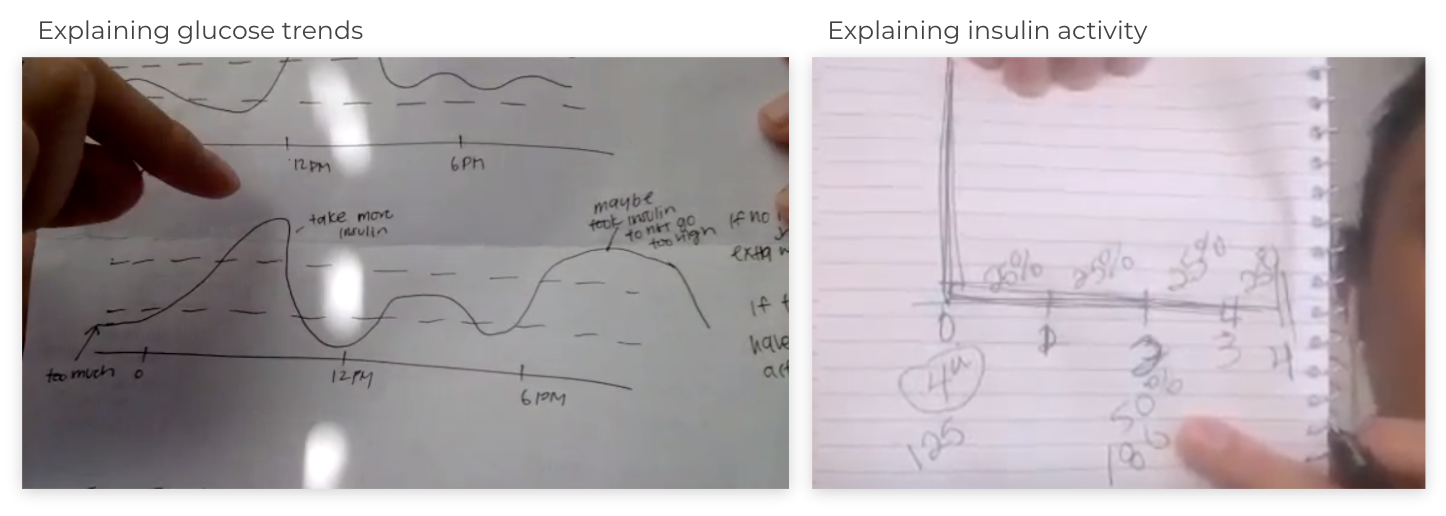
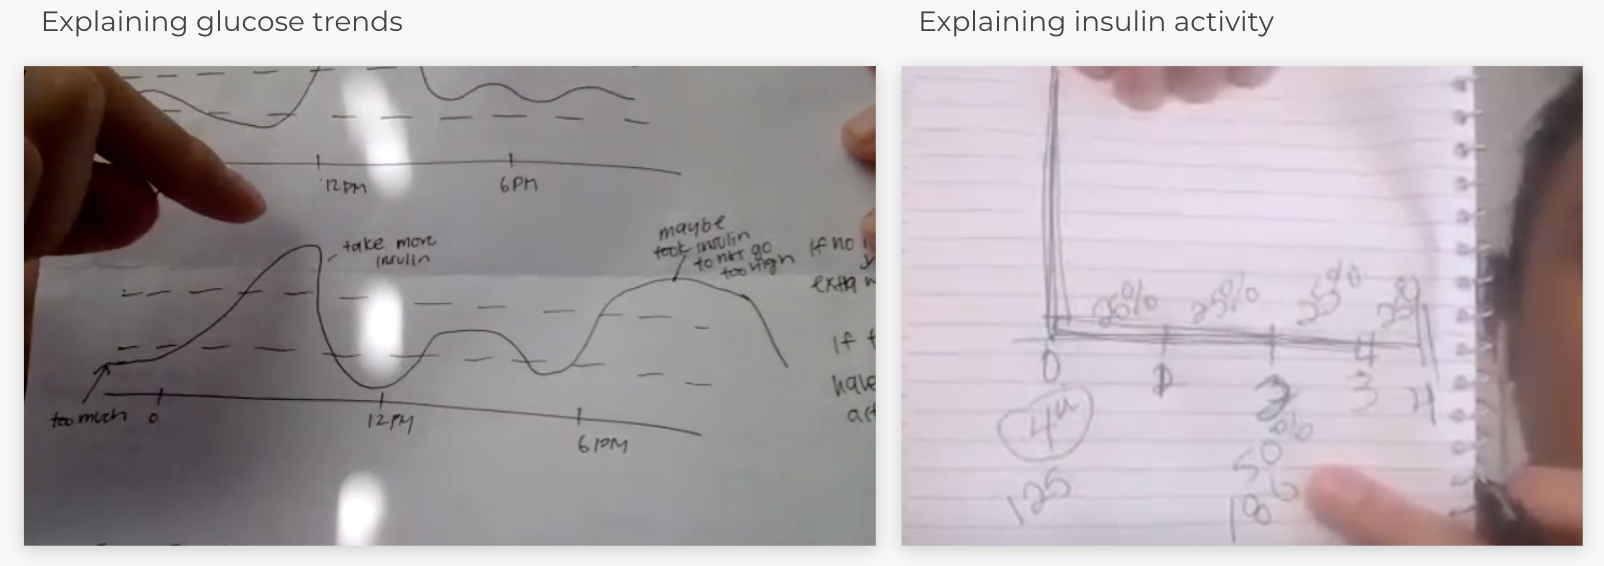
image bg changed

diff --git a/project.html b/project.html
@@ -83,7 +83,7 @@
 
                    <p class="para1"><p class="para1">Diabetes Technology like continous glucose monitors (CGM) and Insulin Pumps makes huge amounts of data available to people with diabetes. This data allows people to understand how diabetes affects their body and understanding this data can lead to a more effective diabetes management. However, there is little support and a lack of tools to help people with diabetes understand essential diabetes concepts.</p><br><br>
                    	<img src="img/insu/laptop.png" class="tp" alt="tide pool cgm data explanation">
-                   <br><br>	<Center><p class="figure">Examples of CGM Data</p></Center>
+                   <br><br>	<Center><p class="figure">Fig. 1. Examples of CGM Data</p></Center>
                   </div><br><br>
                   <div class="whitespace"></div>
       
@@ -92,7 +92,7 @@
                <h1 class="txt1">Challenge</h1> <br>
                <p class="para1"> Living with diabetes can be stressful. On top of the physical, emotional, and financial challenges, once a person is diagnosed, there is an overwhelming amount of information they need to learn and understand quickly in order to manage a healthy lifestyle: Figuring out food intake, complex carbs, exercising, the technology, the side effects of medication, and more. <br><br>
                So what are the methods and tools people are using to learn and teach about diabetes? </p><br><br>
-               <img src="img/insu/selfmade.png" class="img" alt="image of PWDs drawing out curves on paper">
+               <img src="img/insu/selfmade.png" class="img" alt="image of PWDs drawing out curves on paper"> <br><br><Center><p class="figure">Fig. 2. Healthcare providers explaining trends and activity.</p></Center>
                <br><br><br>
                <p class="para1"> Currently, most healthcare providers rely on pen and paper to explain insulin and glucose patterns to their patients. The patient learns in real-time but, what if they have questions? They have to book another appointment via telehealth, leaving lots of opportunity for missed education and understanding. How can we optimize these tools from paper to digital with active visualization and empower users to try it at home and on their own time? </p>
       </div>
@@ -128,13 +128,16 @@
          <div class="col-lg-8 center">
              <h1 class=" txt1"> <span class="highlight4">Ideation</span></h1> <br>
              <p class="para1">The initial ideation focused on three opportunity points gathered from the user research.</p> <br><br>
-             <img src="img/insu/ideationsketch.png" class="img"><br><br><br>
+             <img src="img/insu/ideationsketch.png" class="img"><br><br>
+             <Center><p class="figure">Fig. 3. Rapid ideation sketches.</p></Center><br><br><br>
 
              <p class="para1"><b>1. Understanding Insulin Timing and Dosing</b><br>Healthcare providers stressed understanding insulin is essential.</p><br>
-             <p class="para1"><b>2. Providing Personalized Care</b>Adjusting relevant insights and feedback to the person personalizes  their experience.</p><br>
-             <p class="para1"><b>3. Using Visual Explanations</b><br>Rather than paper, simple digital interactive learning tools are better.</p>
+             <p class="para1"><b>2. Providing Personalized Care</b><br>Adjusting relevant insights and feedback to the person personalizes  their experience.</p><br>
+             <p class="para1"><b>3. Using Visual Explanations</b><br>Rather than paper, simple digital interactive learning tools are better.</p><br><br>
 
-
+             <p class="para1">Although there are many concepts to teach for diabetes management, we decided to focus our tool on teaching the importance of insulin timing and dosing for glucose levels. By keeping the tool simple, we are able to hone in the key insulin concept. 
+            <br><br>We implemented an interactive insulin time and dose sliders to simulate how the individual’s action can affect their glucose levels in real time. </p><br><br><center>
+            <img src="img/insu/prototype1.png" class="tp" alt="insulin and glucose slider prototype"></center> <Center><p class="figure">Fig. 4. Early wireframe for our manually sliding graph.</p></Center><br><br><br>
 
             <!--------------- project nav starts here ------------->
 

diff --git a/style2.css b/style2.css
@@ -497,8 +497,8 @@ background: linear-gradient(180deg,rgba(255,255,255,0) 50%,  #41948E 50%);
   width: 90%;
 }
 .figure{
-  color: #bfbfbf;
-  font-size: 13px;
+  color: #595959;
+  font-size: 14px;
 }
 .quotes{
   color: #41948E;
@@ -508,6 +508,7 @@ background: linear-gradient(180deg,rgba(255,255,255,0) 50%,  #41948E 50%);
 .pp{
   font-size: 13px;
 }
+
 
 
 
